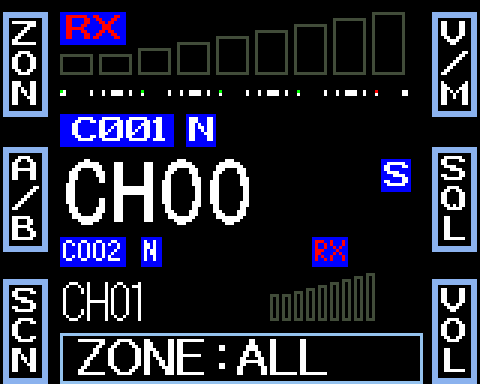
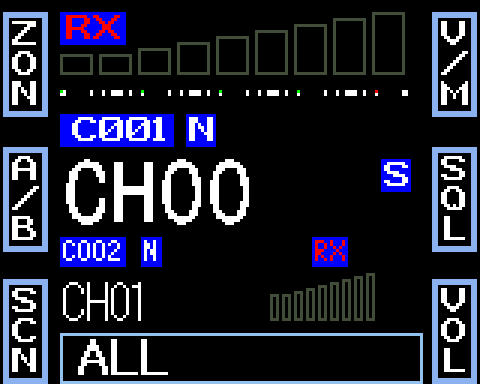
retevis-rt95-head 1.1.3

Changed region(s): [[0.1562, 0.875, 0.4375, 1.0], [0.5, 0.875, 0.6875, 1.0], [0.4375, 0.9375, 0.4688, 0.9688]]

diff --git a/docs/retevis-rt95-head/features.md b/docs/retevis-rt95-head/features.md
@@ -1,16 +1,17 @@
 # What it does
 
 The modification is the unmodified front-panel firmware plus the changes below: the version line, zones, channel
-descriptions with a new single-watch layout, and the Scan Pause Time on carrier scan. Everything else is as the maker made it.
+descriptions with a new single-watch layout, the Scan Pause Time on carrier scan, and skipping a channel during a scan. Everything else is as the maker made it.
 
 Each feature adds a row to this table in the release that ships it, and the row says how far it has been checked.
 
 | Feature | What you see | Since | Checked on a radio |
 |---|---|---|---|
 | [Version on the power-on screen](#version-on-the-power-on-screen) | A small line along the bottom of the power-on screen: `MM9PDY-` and the firmware version | 1.0.0-rc.2 | Yes, on test builds of 1.0.0-rc.2 and 1.1.0 |
-| [Zones](#zones) | Group your channels into up to 32 named zones in Codeplug Studio, then pick one with the key set to DIR (the radio shows ZON). The knob, mic Up and Down and scan stay inside the zone | 1.1.0 | Once, on a test build of 1.1.0 |
+| [Zones](#zones) | Group your channels into up to 32 named zones in Codeplug Studio, then pick one with the key set to DIR (the radio shows ZON). The knob, mic Up and Down and scan stay inside the zone | 1.1.0 | Once, on a test build of 1.1.0; long names cut to fit once, on a test build of 1.1.3 |
 | [Channel descriptions](#channel-descriptions) | In single watch, a short description (up to 12 characters, the channel's Name in Studio) in amber under the channel name, with the zone name in sky blue above it. Dual watch is unchanged | 1.1.0 | Once, on a test build of 1.1.0 |
 | [CO scan and Scan Pause Time](#co-scan-and-scan-pause-time) | In carrier-operated (CO) scan, after the signal goes the radio waits the Scan Pause Time already in the menu (5, 10 or 15 seconds), then continues. Time-operated and search scan are unchanged | 1.1.2 | Once, on a test build of 1.1.2: the 5 second setting |
+| [Nuisance delete in scan](#nuisance-delete-in-scan) | While a scan is stopped on a channel, hold SCN to skip that channel until you start the next scan | 1.1.3 | Once, on a test build of 1.1.3 |
 
 The vendor's own version text (what the official programming software and Codeplug Studio read from the radio) is not
 changed. The release name appears separately, as `mm9pdy-` plus the version (shown in capitals on the power-on screen).
@@ -37,26 +38,32 @@ feature. Everything else on every screen is as before.
 
 **Checked on a radio once**, on a test build that differs from the release only in the version line.
 
-**Known issues:** some zone names run past the end of the popup box and leave a few
-pixels near the P6 label, and some flicker and are not drawn; switching zone stays on the channel you are on when it is
-also in the new zone.
+**Long names.** The popup shows the zone name by itself, with room for eight wide letters or nine to ten ordinary capitals
+(seven W, eight M). A longer name is cut to fit, so `NORTHERN-REP` shows as `NORTHERN-RE`. The name itself is not changed, and the
+zone line under the channel in single watch (when it is on) shows more of it. Nothing is drawn past the box.
+
+![A long zone name cut to fit the popup, NORTHERN-RE](images/zones-selector-long.png)
+
+*A twelve-character name cut to fit. Demo channels and zones, in dual watch.*
+
+**Known issues:** switching zone stays on the channel you are on when it is also in the new zone.
 
 A zone is a named group of your channels, such as `LOCAL` or `UHF`. You make zones in Codeplug Studio (its MM9PDY
-target writes them with the rest of your codeplug); the radio never edits them. A zone has 1 to 8 characters in its name,
+target writes them with the rest of your codeplug); the radio never edits them. A zone has 1 to 12 characters in its name,
 and there can be up to 32 zones.
 
 **Setting it up.** Give a key the function **DIR**: a P-key (in the official CPS, in Codeplug Studio, or in the radio's
 MINI KEY menu) or a key on the keypad microphone (PA to PD, in the radio's HAND KEY menu). The radio then labels that key
-**ZON**, and the popup it opens says **ZONE**. Codeplug Studio's MM9PDY target can set the key for you. The DIR item in the
+**ZON**, and the popup it opens shows the name of the zone. Codeplug Studio's MM9PDY target can set the key for you. The DIR item in the
 radio's FUNC MENU is not changed: it still flips the screen.
 
-![The ZON key label and the zone popup, ZONE:UHF](images/zones-selector.png)
+![The ZON key label and the zone popup, UHF](images/zones-selector.png)
 
 *The popup shows the zone name; the key at the top left now reads ZON. Demo channels and zones, in dual watch.*
 
 **Using it.**
 
-1. Press the ZON key. The bottom line shows `ZONE:` and the name of the current zone (`ZONE:ALL` for all channels).
+1. Press the ZON key. The bottom line shows the name of the current zone (`ALL` for all channels).
 2. Turn the knob, or press the microphone's Up and Down keys. You step through **All channels**, then each zone that has at
    least one of its channels on the radio, and round again. The radio changes to a channel of the new zone: the one you are
    on if it belongs, else the one you last used in that zone, else the lowest.
@@ -94,6 +101,22 @@ channel number, so if you edit your channels with them, check your zones in Code
 In **CO** scan the radio already stayed on a channel while a signal was present. It now also waits the **Scan Pause Time (SCT)** after the signal goes before it moves on—the same **5, 10 or 15 seconds** the FUNC MENU already offers for SCT (labels 5S, 10S, 15S). If the signal comes back during that wait, the timer starts again. **TO** scan still pauses for SCT from when the carrier appears; **SE** (search) still stops when a signal is found. Nothing new appears in the menu and the codeplug is unchanged.
 
 **Release note:** CO scan waits the Scan Pause Time after the signal drops, using the existing 5 / 10 / 15 second menu values.
+
+## Nuisance delete in scan
+
+**Checked on a radio once,** on a test build of 1.1.3.
+
+While a scan is stopped on a channel, the **SCN** key on the screen changes to read **NUI**. Hold **SCN** for about a second. That channel is skipped for the rest of this scan: you get the usual key beep, if beeps are on, and the scan moves on to the next channel at once. A skipped channel is not stopped on again until you start a new scan; pressing **SCN** to stop and **SCN** to start brings every channel back. Nothing in your codeplug changes, and the channel stays in your scan list.
+
+- **The label.** The key reads **NUI** only while holding it would skip the channel. While the scan is moving it reads **SCN**, and it goes back to **SCN** a moment before the scan moves on after a signal.
+- **When it works.** Only while the scan is stopped on a channel: a signal is present, or the radio is waiting after it went (the Scan Pause Time in carrier scan, the pause in time scan). If the scan is moving, holding **SCN** stops it, as before.
+- **The last channel.** The radio will not skip the only channel left to scan. It shows `ERROR` and stays on that channel.
+- **Zones.** In a zone, the skip is inside the zone. Mic Up and Down and the knob also pass over a skipped channel while the scan runs.
+- **Search scan (SE).** A signal stops the scan, so there is almost nothing to skip. Holding **SCN** after a stop is the radio's own skip, not this feature.
+- **Be careful when not scanning.** Holding **SCN** when no scan is running is the radio's own **permanent** skip of that channel (it shows `SKP`), exactly as before. Hold it only while a scan is stopped on a channel.
+- **Not covered.** It is the front-panel **SCN** key only, not a microphone key. VFO (band) scan is unchanged.
+
+**Release note:** While a scan is stopped on a channel, hold SCN for about a second to skip that channel until you start the next scan. The SCN key on the screen reads NUI while the scan is stopped on a channel. Nothing in your codeplug changes.
 
 ## Channel descriptions
 

diff --git a/releases/retevis-rt95-head/rt95-fw-1.1.3.md b/releases/retevis-rt95-head/rt95-fw-1.1.3.md
@@ -1,0 +1,34 @@
+---
+version: 1.1.3
+channel: final
+stock: LCD V1.41 (20231202)
+published: 2026-11-04
+summary: Hold SCN while a scan is stopped on a channel to skip that channel until the next scan.
+verify: The bottom of the power-on screen shows "MM9PDY-1.1.3".
+---
+
+Release 1.1.3 of the Retevis RT95 front-panel modification. It applies to the stock front-panel firmware **LCD V1.41** (20231202) only, and leaves the radio board's firmware alone. Everything in 1.1.2 is unchanged apart from the change below.
+
+**How far it has been checked:** both changes have been checked in an emulator and tried once on a radio, with a test build that differs from this release only in the version line. On the radio, skipping a channel worked, and long zone names showed cut to fit inside the box, with nothing left beside it and no blank box.
+
+**What's new**
+
+- **Nuisance delete in scan.** While a scan is stopped on a channel, hold SCN for about a second to skip that channel until you start the next scan. The SCN key on the screen reads NUI while the scan is stopped on a channel. Nothing in your codeplug changes.
+
+- **Long zone names fit.** The zone selector shows the zone name by itself, without `ZONE:`, so more of it fits. A name still too wide for the box is cut to fit (a twelve-character name of wide letters shows its first seven), instead of running past the box, leaving marks by the P6 label, or flickering and not being drawn. The zone line on the single-watch screen is cut the same way when a name is too wide for it. Zone names can be up to 12 characters.
+
+**Known issues** (still open, to be fixed in a later release)
+
+- Switching zone stays on the current channel if it also belongs to the new zone, instead of going to the channel you last used in that zone.
+- The channel number shown is the radio's own number, not the channel's place in the zone.
+
+**Known limits**
+
+- Screen flip stays in the radio's FUNC menu (DIR). A key set to DIR opens zones instead.
+- A description is hidden once the channel has been changed on the radio or with another programming tool. Write again from Studio to bring it back.
+- Without zone data from Studio, the radio behaves as before, with all channels.
+- Skipping a channel works from the front-panel SCN key only, not from a microphone key.
+
+**Checking it worked:** switch the radio off and on and read the bottom of the power-on screen: it shows `MM9PDY-1.1.3`.
+
+**Going back:** write release 1.1.2, or the maker's stock front-panel firmware (LCD V1.41), with Codeplug Studio.
